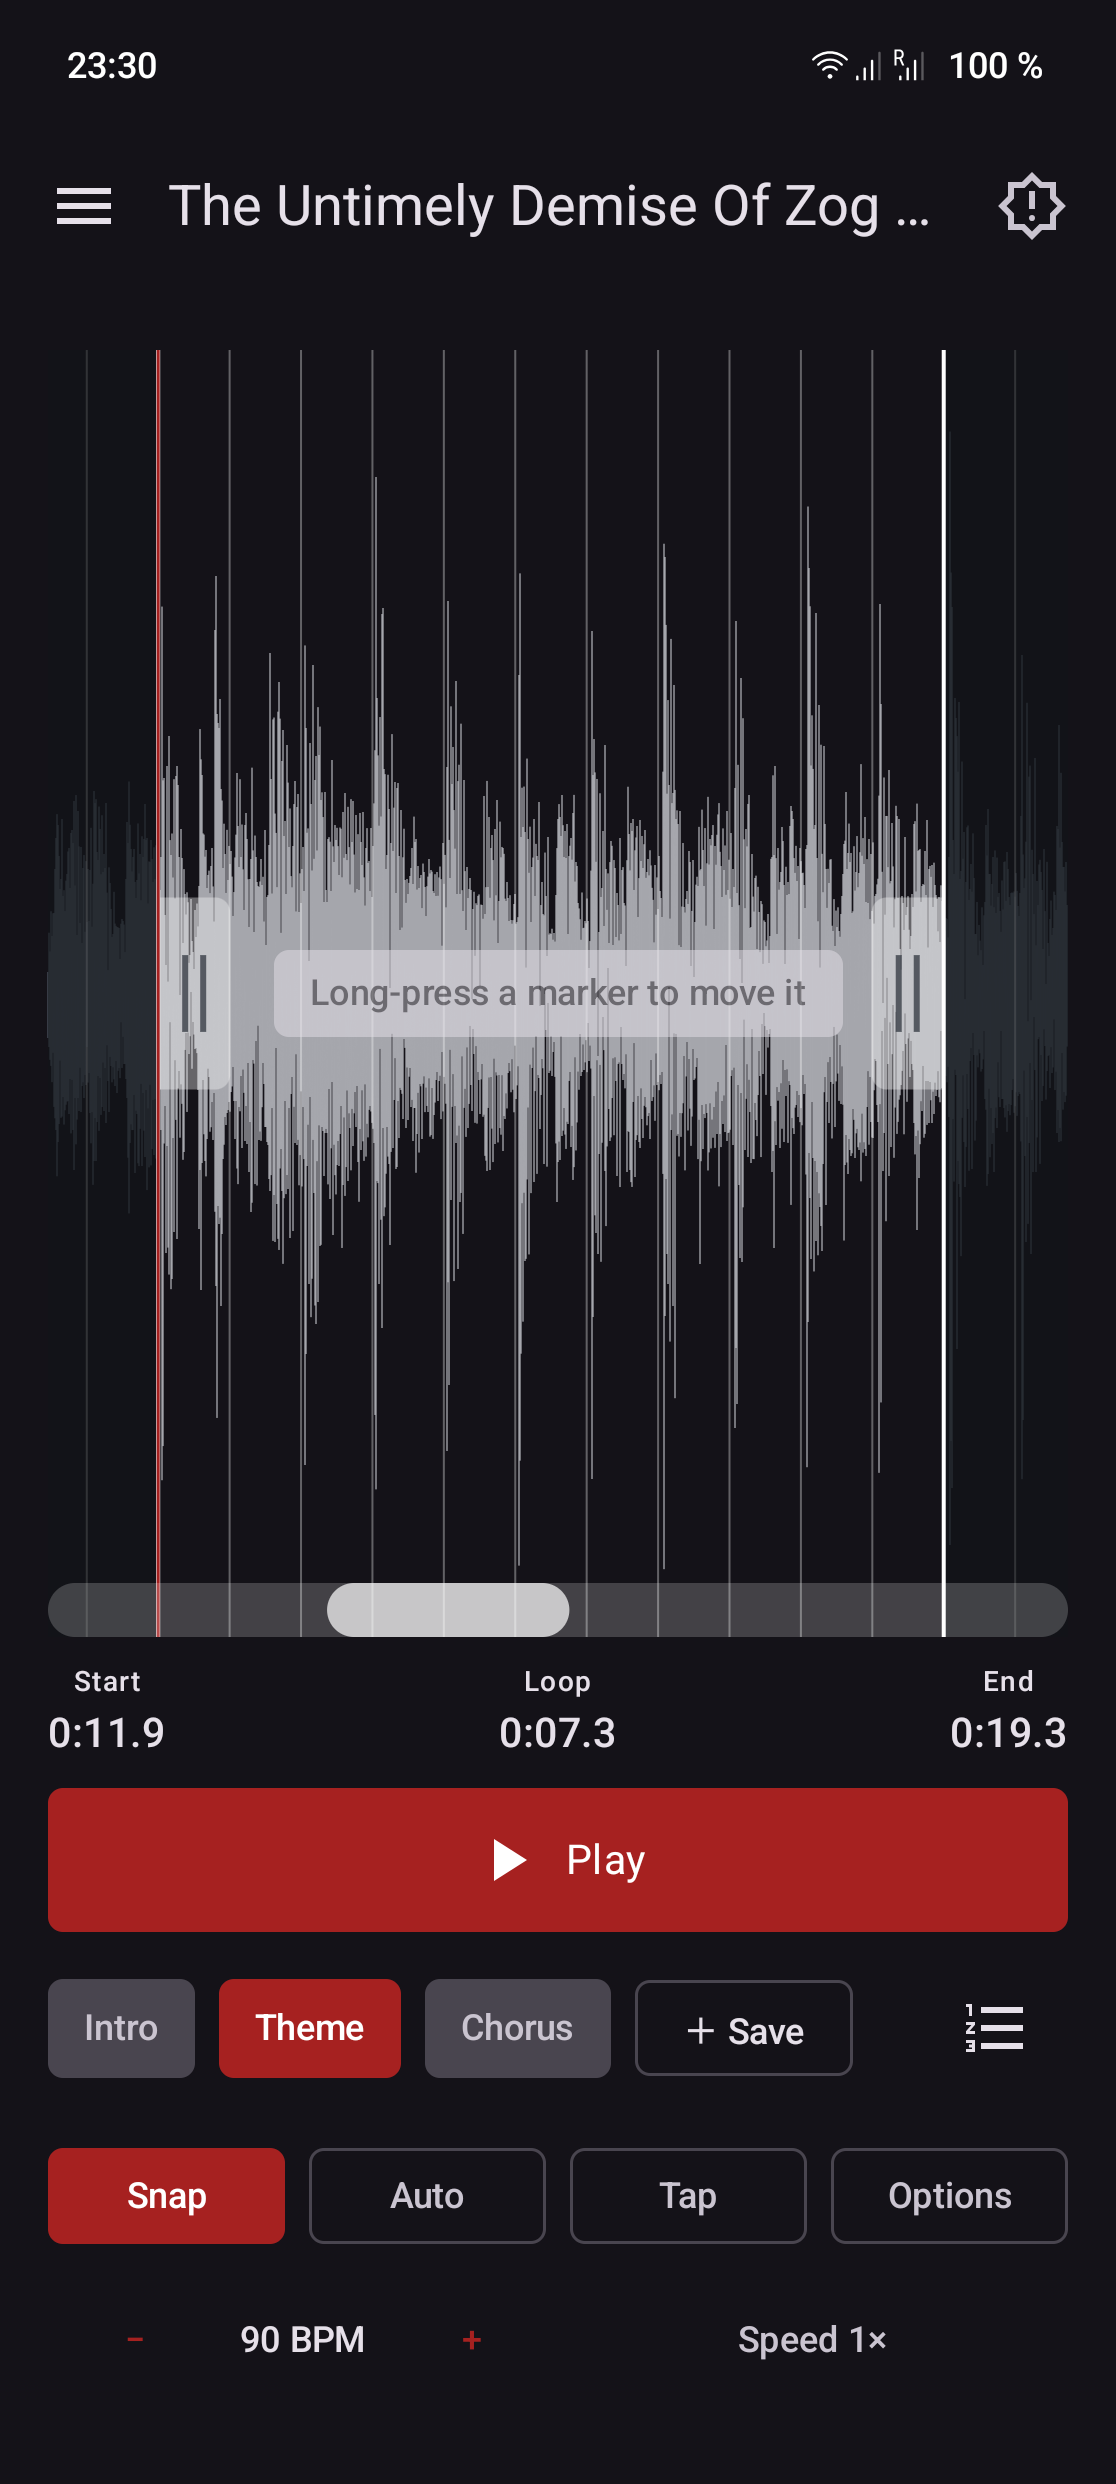
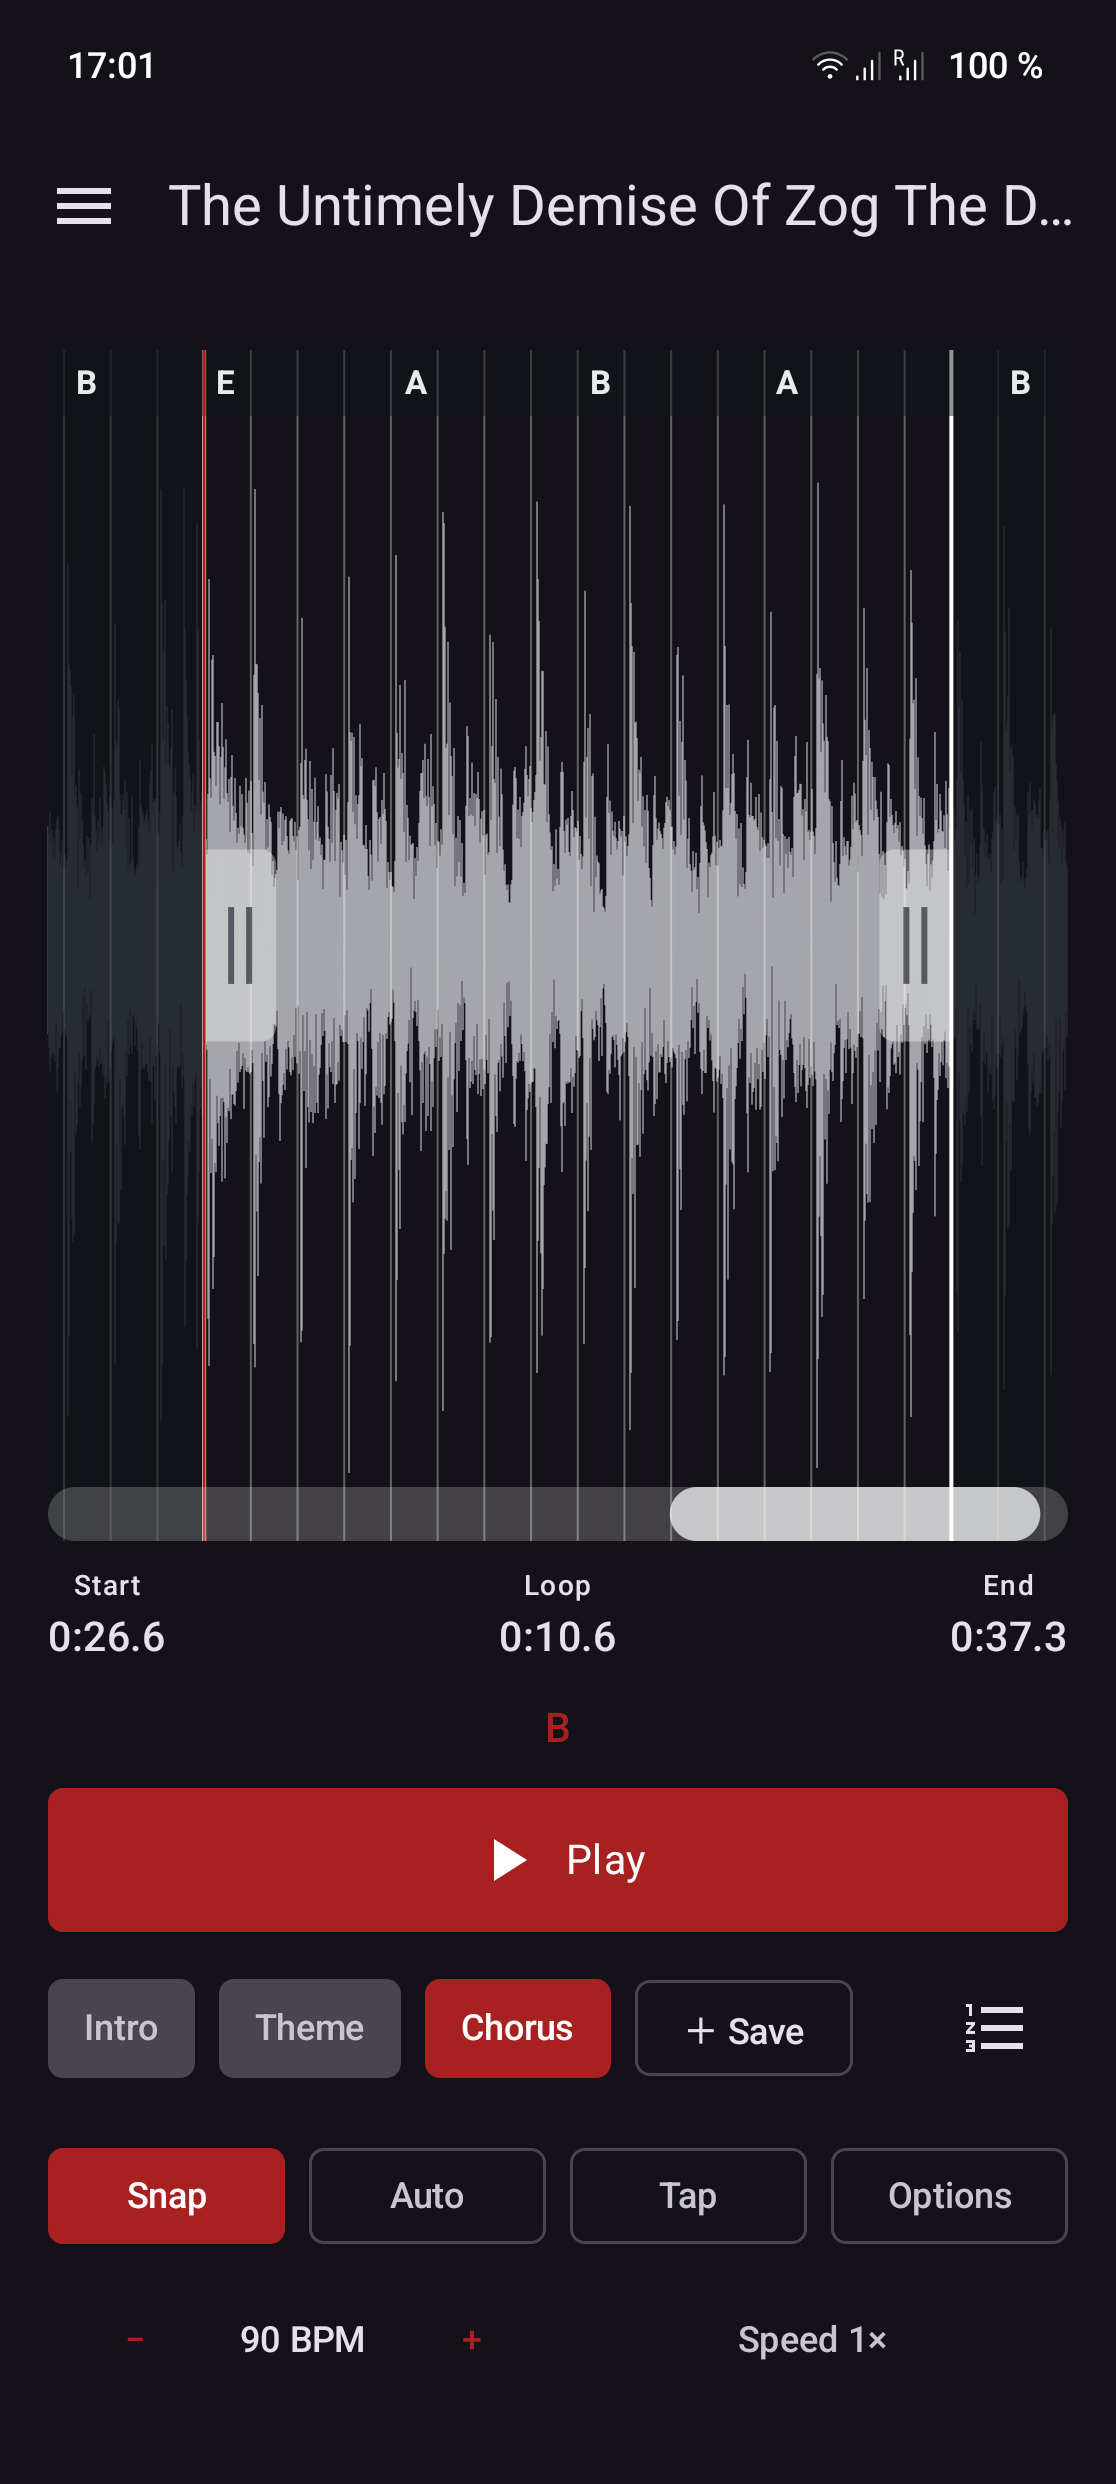
Refresh README screenshot to the chord-lane view; tidy disclaimer

diff --git a/README.md b/README.md
@@ -9,7 +9,7 @@ Early-stage release — expect rough edges. Feedback and bug reports welcome via
 
 ## Screenshots
 
-<img src="docs/screenshot.png" alt="RubberRing loop editor" width="320" />
+<img src="docs/screenshot.png" alt="RubberRing loop editor with chord lane" width="320" />
 
 ## Features
 
@@ -73,8 +73,8 @@ If Rubber Ring is useful to you, you can support its development on [Ko-fi](http
 
 ## Disclaimer(s)
 
-1. This app is built around my own musical style, particularly the chords and tempos I use. While looping will work regardless of the imported audio, chord and beat detection may not work perfectly for Prog-Polka-Fusion in 7/8.
+1. This app is built around my own musical style, particularly the chords and tempi I use. While looping will work regardless of the imported audio, chord and beat detection may not work perfectly for Prog-Polka-Fusion in 7/8.
 
-2) This project was developed with the assistance of Claude under my direction and functional review. The code has been analysed with Codacy (detekt).
+2. This project was developed with the assistance of Claude under my direction and functional review. The code has been analysed with Codacy (detekt).
 
 [![Codacy Badge](https://app.codacy.com/project/badge/Grade/ddcda70adc4c442dbb9f03d9aa2f0e31)](https://app.codacy.com/gh/mkay/RubberRing/dashboard)